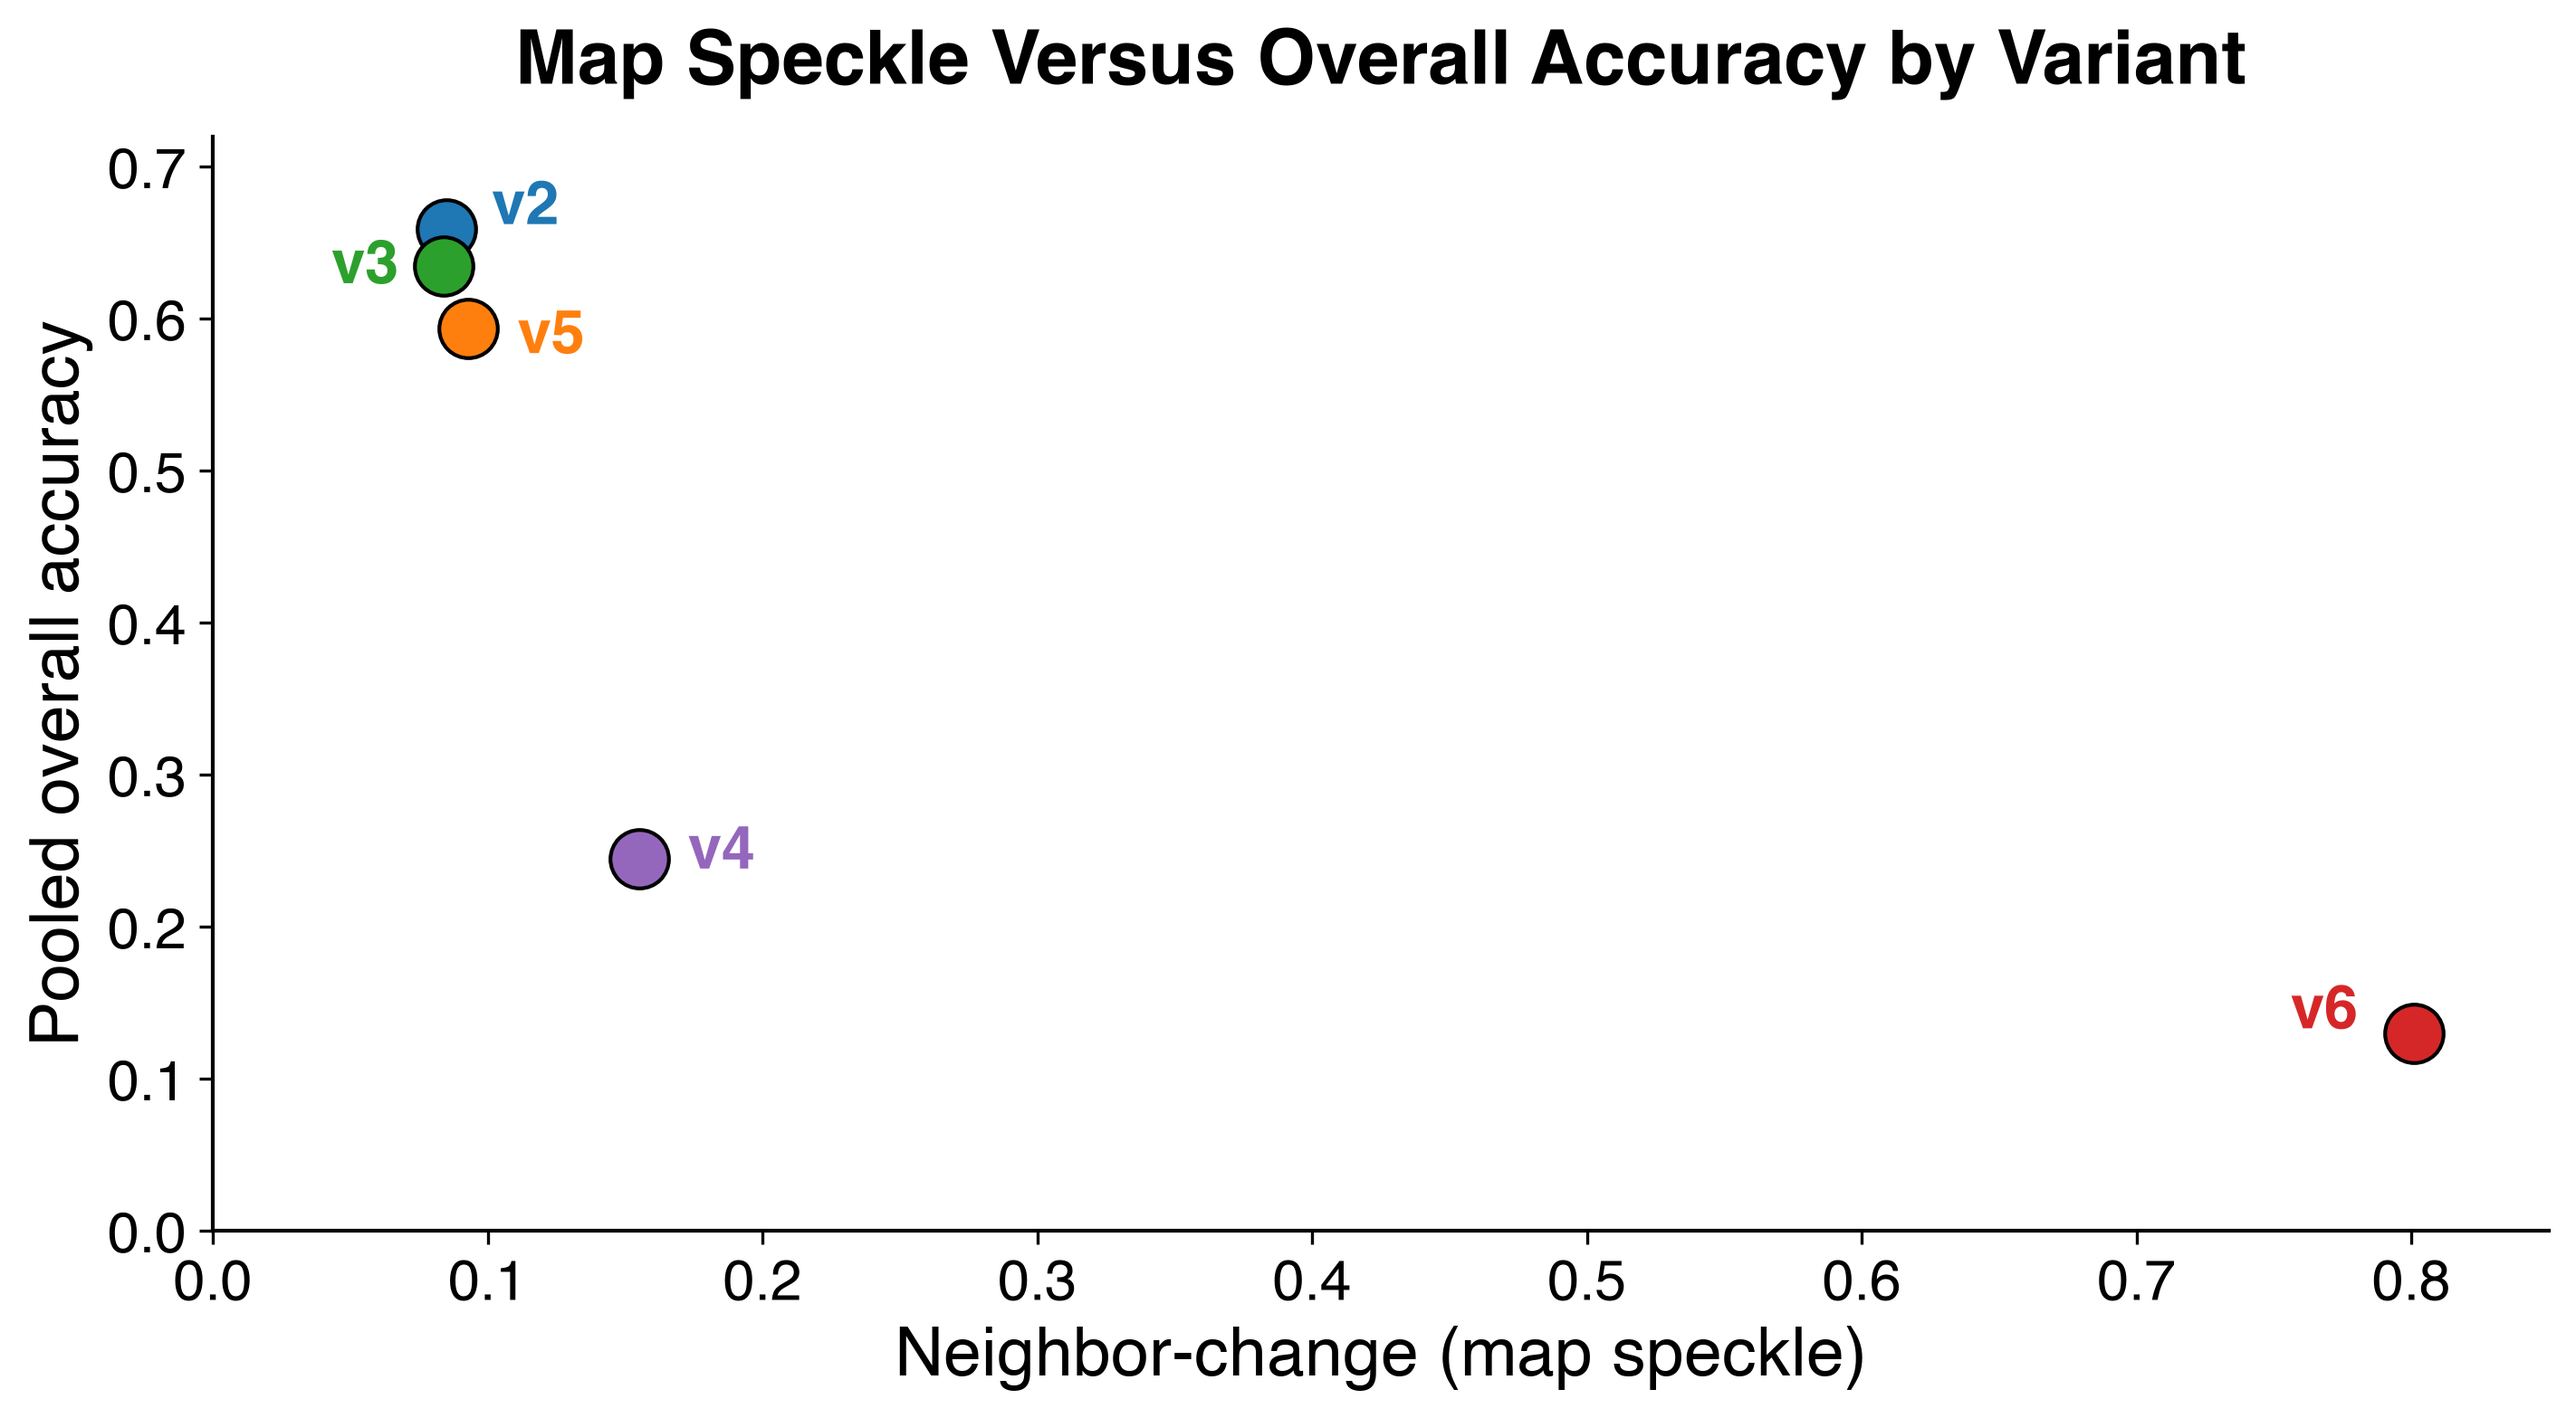
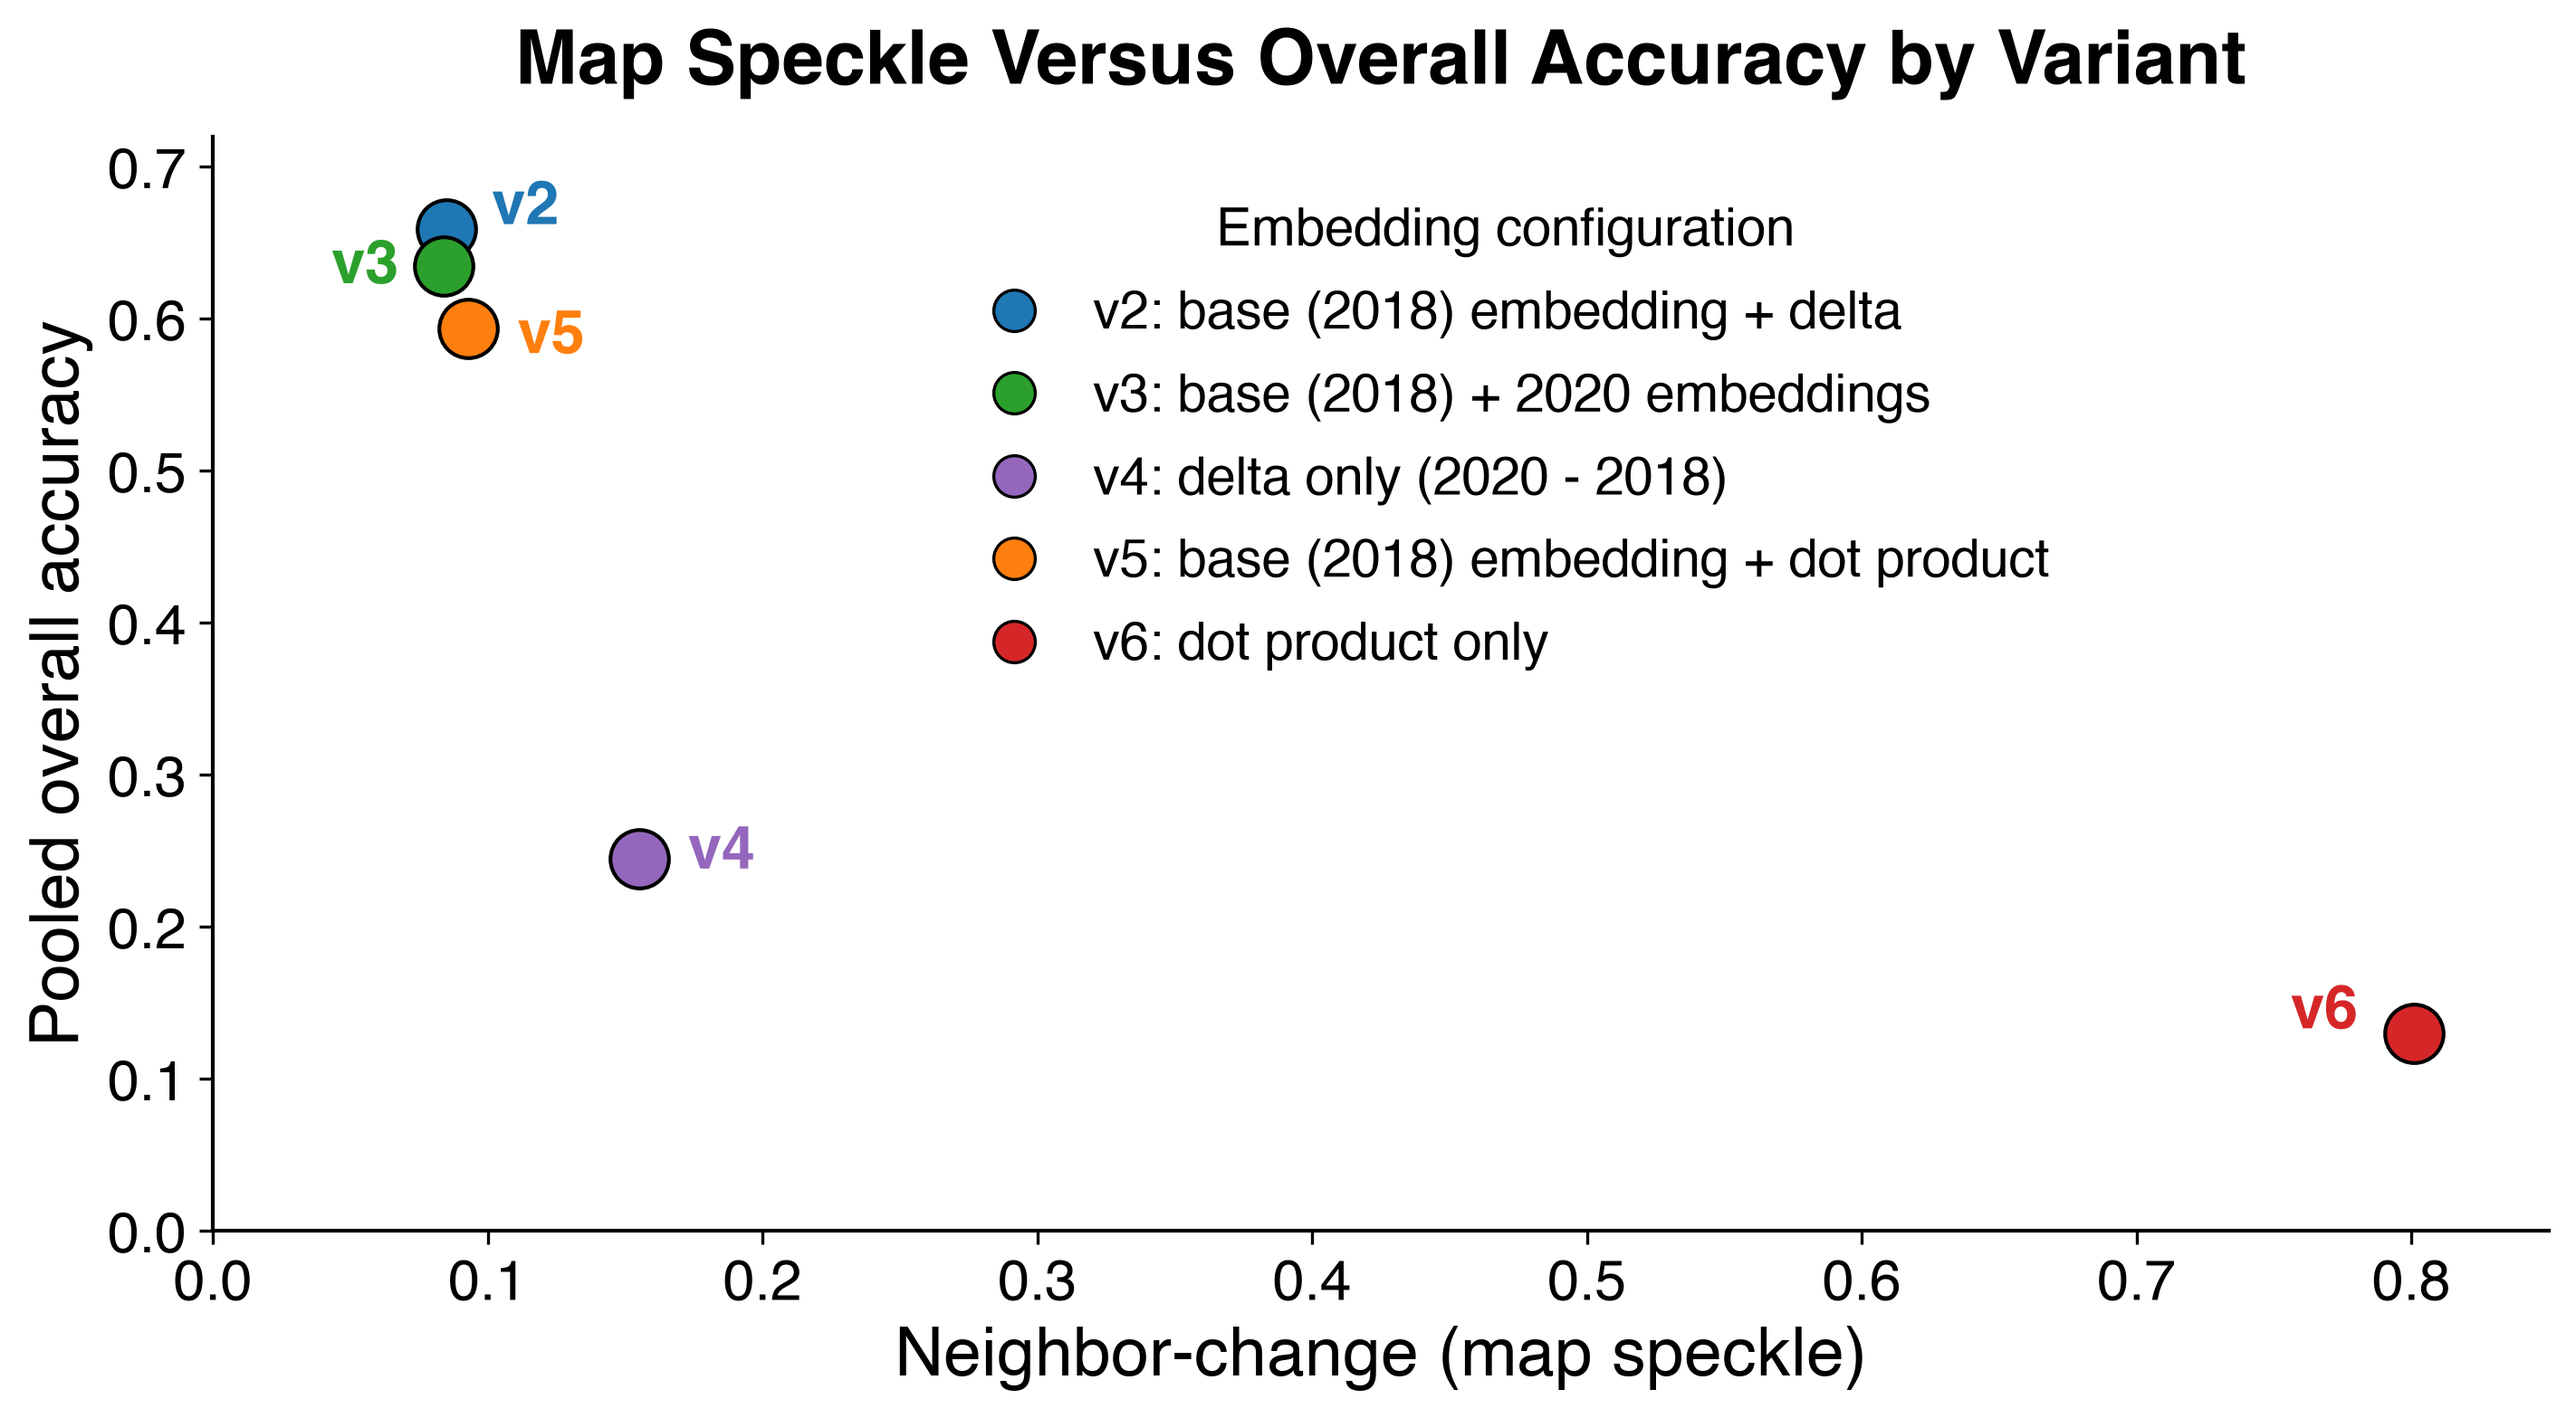
pres_06_speckle_vs_oa: add variant configuration legend
Add a legend naming each variant's embedding configuration, worded in
reference to the base year with the year in parentheses (base is 2018),
placed in the open centre of the panel.

Changed region(s): [[0.433, 0.1532, 0.8042, 0.4901], [0.3712, 0.1838, 0.4021, 0.4901]]

diff --git a/presentation/scripts/pres_06_speckle_vs_oa.py b/presentation/scripts/pres_06_speckle_vs_oa.py
@@ -25,6 +25,7 @@ import os
 import matplotlib
 matplotlib.use("Agg")
 import matplotlib.pyplot as plt
+from matplotlib.lines import Line2D
 import pandas as pd
 from scipy.stats import spearmanr
 
@@ -35,6 +36,17 @@ OUT = os.path.join(ROOT, "presentation", "figures")
 
 # shared variant palette, matching the rest of the repo
 VPAL = {"v2": "#1f77b4", "v3": "#2ca02c", "v4": "#9467bd", "v5": "#ff7f0e", "v6": "#d62728"}
+
+# embedding configuration per variant, worded in reference to the base year with the year in
+# parentheses (base is 2018, paired with 2020). matches the feature configurations elsewhere in the repo
+VDESC = {
+    "v2": "v2: base (2018) embedding + delta",
+    "v3": "v3: base (2018) + 2020 embeddings",
+    "v4": "v4: delta only (2020 - 2018)",
+    "v5": "v5: base (2018) embedding + dot product",
+    "v6": "v6: dot product only",
+}
+VORDER = ["v2", "v3", "v4", "v5", "v6"]
 
 # per-point label offsets in points (dx, dy, horizontal-align), to keep the close cluster readable
 LABEL_OFFSET = {
@@ -96,6 +108,14 @@ def main():
     ax.grid(False)
     for s in ("top", "right"):
         ax.spines[s].set_visible(False)
+
+    # legend reminding what each variant is, placed in the open centre of the panel
+    handles = [Line2D([0], [0], marker="o", linestyle="none", markersize=11,
+                      markerfacecolor=VPAL[v], markeredgecolor="black", markeredgewidth=0.8,
+                      label=VDESC[v]) for v in VORDER]
+    ax.legend(handles=handles, loc="upper left", bbox_to_anchor=(0.30, 0.98), frameon=False,
+              fontsize=14, handletextpad=0.5, labelspacing=0.6,
+              title="Embedding configuration", title_fontsize=14)
 
     os.makedirs(OUT, exist_ok=True)
     fig.savefig(os.path.join(OUT, "pres_06_speckle_vs_oa.png"), dpi=300, bbox_inches="tight")
